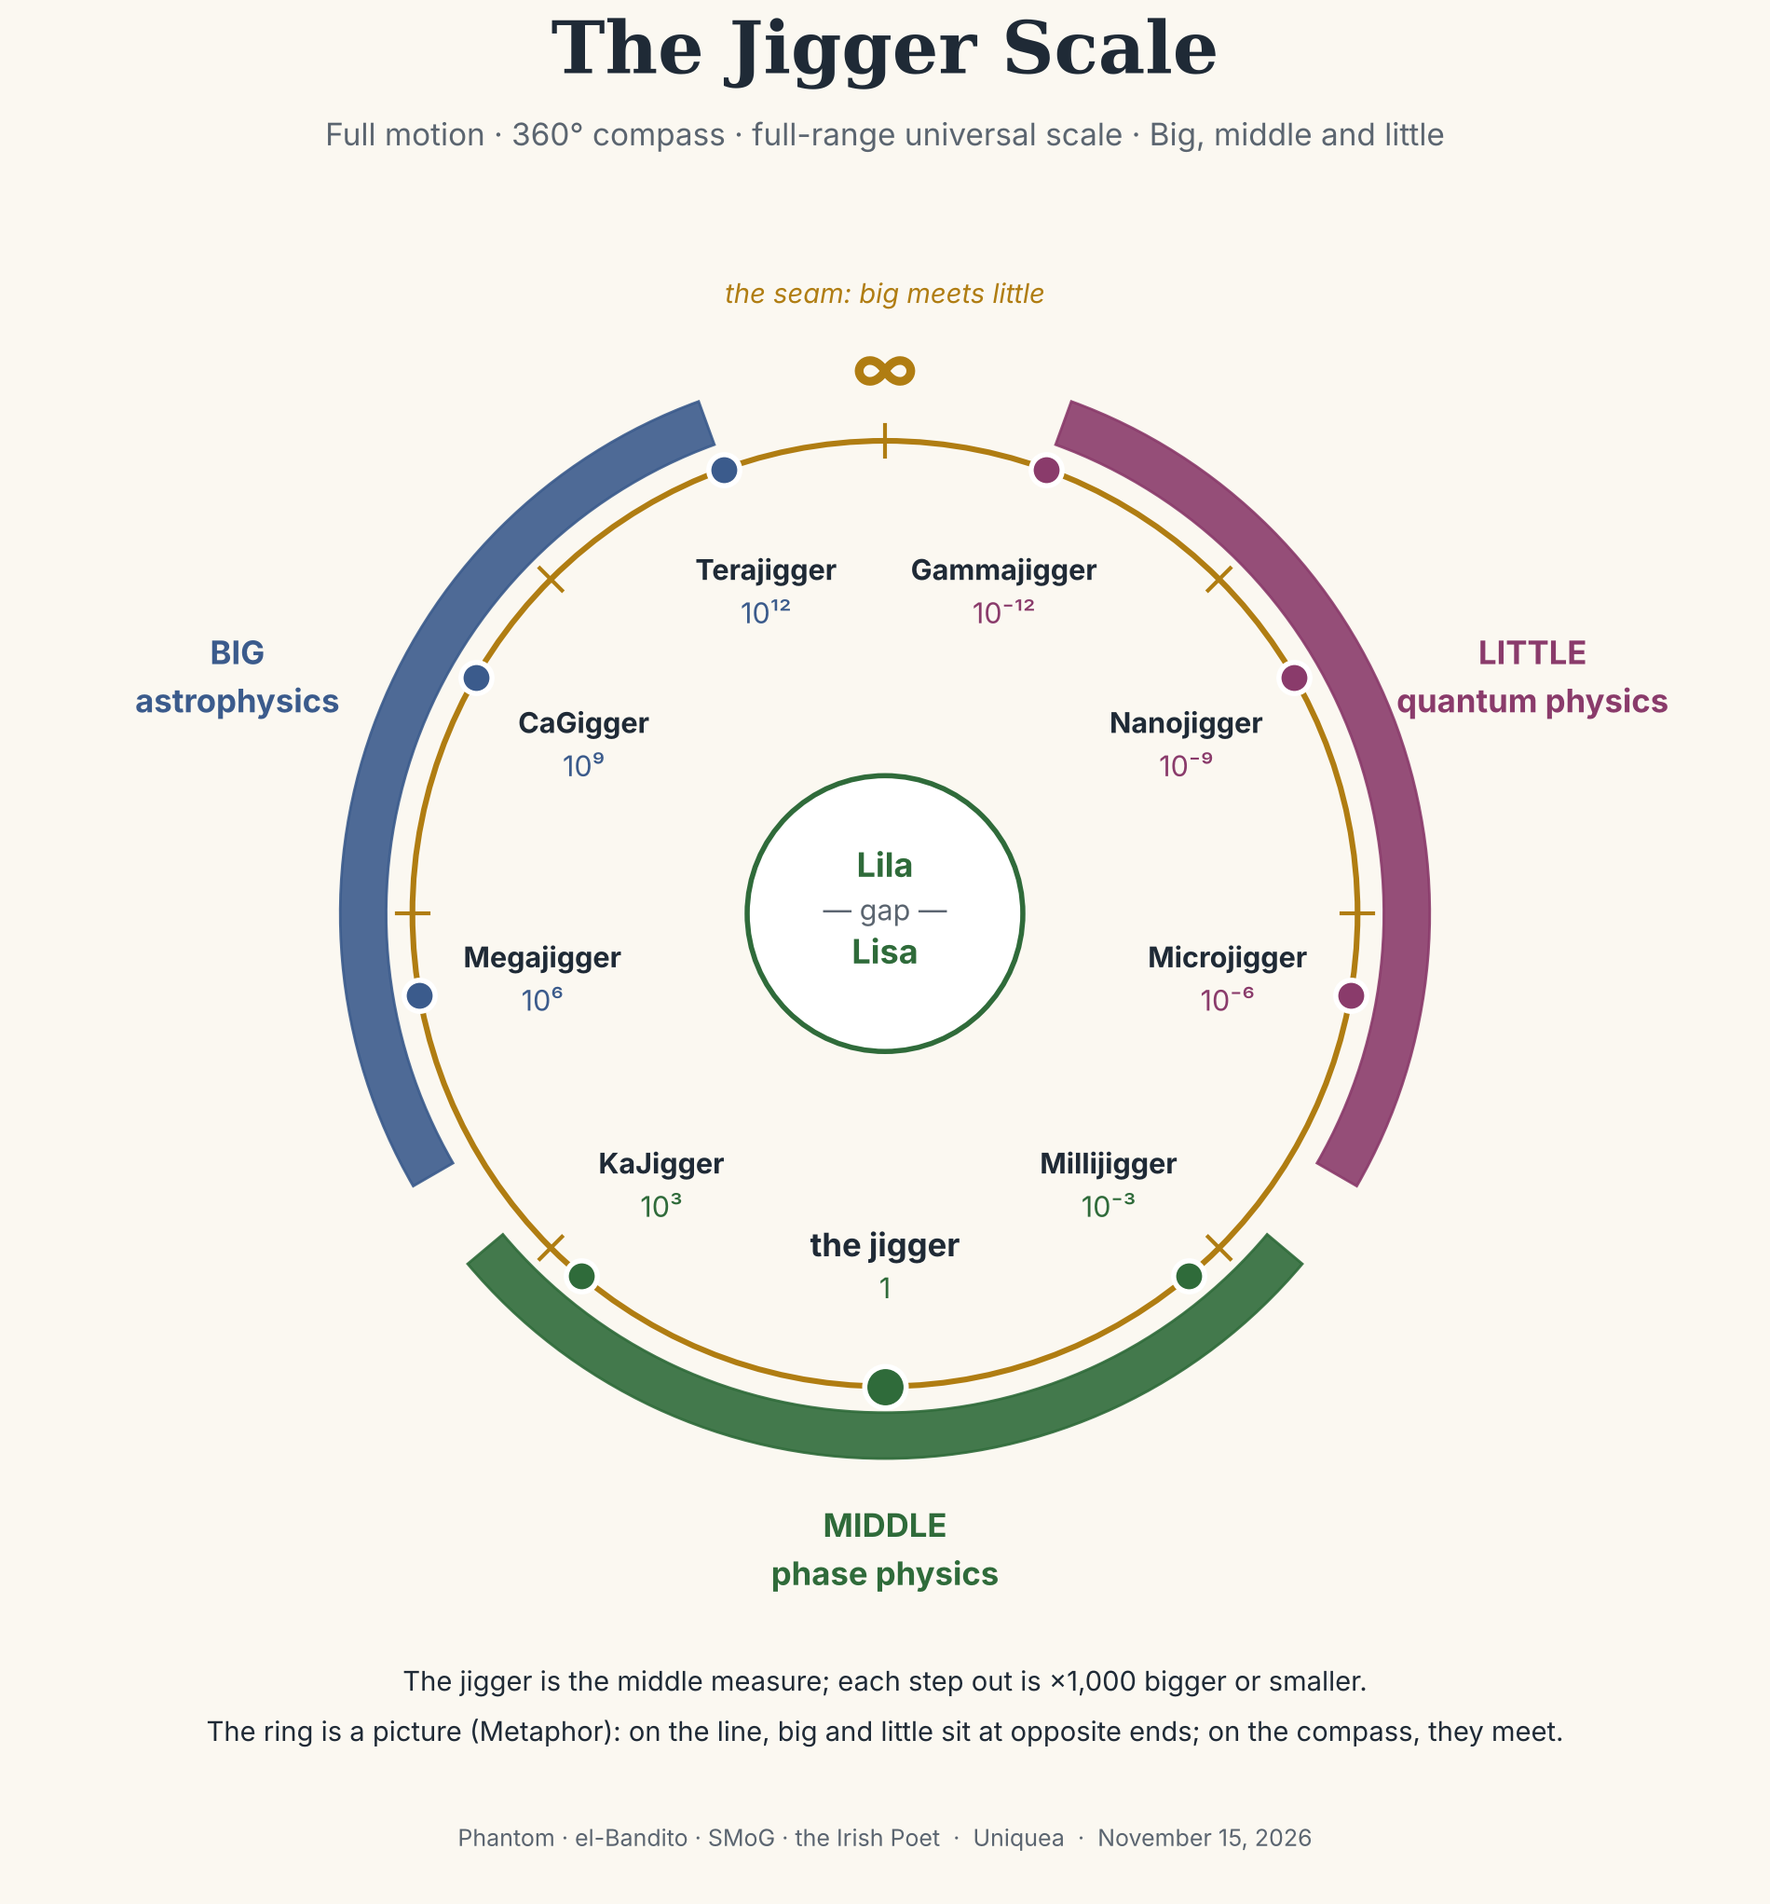
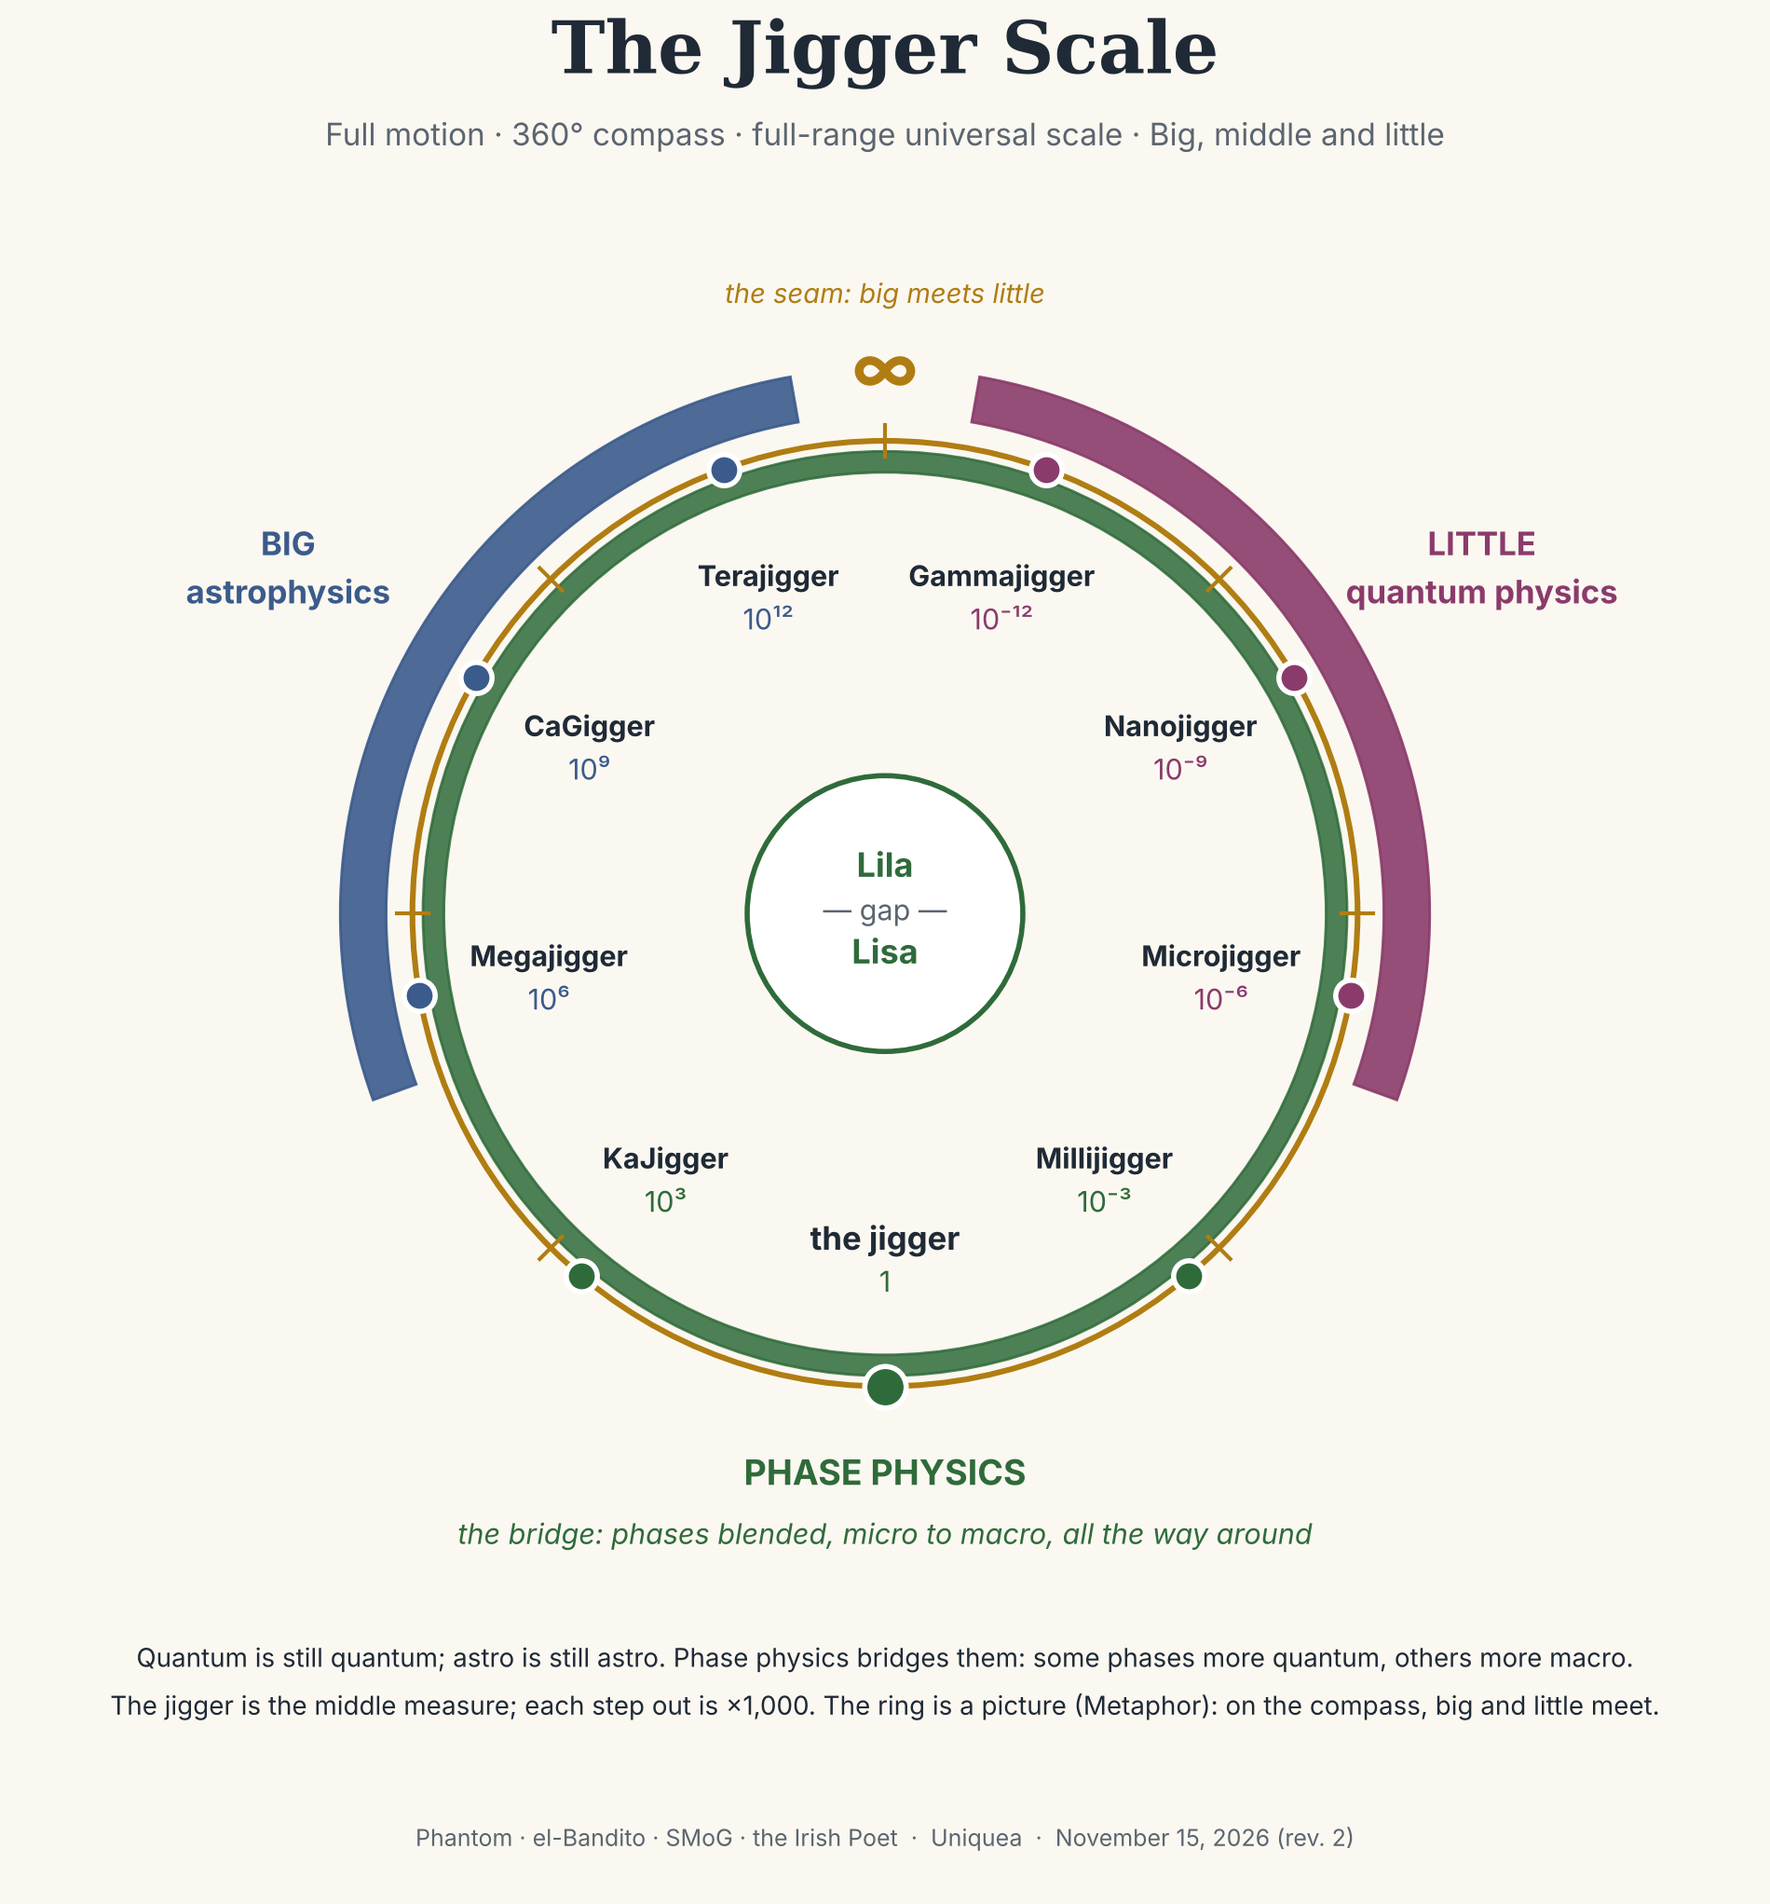
The Tablet and the Legend; Jigger Scale rev. 2 (phase physics as the bridge)
- docs/The-Tablet-and-the-Legend.md, figures/The-Tablet.png: the three scripts,
  the HAT key, rules with their exceptions, legend of terms
- figures/Jigger-Scale.png, docs/Jigger-Scale.md: owner's correction; phase physics
  runs the whole ring, quantum and astro at the ends
- master: Tablet and Legend, the correction, the Tada scale

Claude-Session: https://claude.ai/code/session_013dyZnLZ46x2JJH5VPEQcaW

diff --git a/docs/The-Tablet-and-the-Legend.md b/docs/The-Tablet-and-the-Legend.md
@@ -1,0 +1,86 @@
+# The Tablet and the Legend
+
+*Uniquea · November 15, 2026 · Stephen M. Griffin (Phantom.O.Vanish) · ORCID 0009-0005-8386-3999*
+
+> "In a rare moment of serious, we are creating a tablet and a legend that will become ancient texts."
+
+![The Tablet](../figures/The-Tablet.png)
+
+A map without a legend is a picture. The Rosetta Stone was read because it carried one decree three ways. This page is the record's legend: the key for a reader three hundred years from now, when today's words have lost their context.
+
+## 1. How to read the record: the three scripts
+
+Every important line in Uniquea is written three ways, like the Rosetta Stone:
+
+| Script | What it is | Example |
+|---|---|---|
+| **The owner's words** | Exactly as written, spelling and all | "Locked, sure." |
+| **Plain English** | What it means today | Irish English: "very drunk, and that ends the argument." |
+| **The HAT label** | How sure we are | Established |
+
+## 2. The HAT labels (Honest, Accurate, Truth)
+
+| Label | Meaning |
+|---|---|
+| **Established** | Accepted fact, checkable in standard sources |
+| **Derived** | Follows by correct math or logic from what is given |
+| **Tested** | Checked against data, with the method and result on file |
+| **Candidate** | Passed a first test; not yet confirmed |
+| **Postulated** | Proposed; not yet tested |
+| **Open** | A live question; not settled either way |
+| **Faith** | Held in belief, not proved; stated as such |
+| **Metaphor** | A picture that helps the mind; not a law |
+| **Humor** | A joke, labeled so no one mistakes it for a claim |
+| **Rule** | A saying or practice the owner lives by |
+| **Superseded** | Replaced by a later, better entry (kept, not erased) |
+| **Withdrawn** | Found wrong; kept on file with the reason |
+
+## 3. The rule and its exception
+
+> "I before E, except after C": and then comes *efficiently*. A twist, an exception. It happens.
+
+- **Established:** the old spelling rule has many exceptions, and some sit in this very page: *ancient*, *efficient*, *science* and *species* put **ie after c**; *weird*, *seize*, *their* and *neighbor* put **ei with no c at all**.
+- **Rule for the record:** every rule here is written down **with its exceptions beside it**. A rule without its exceptions misleads the future reader; an exception without its rule looks like an error.
+- **The owner's spellings stay.** Where the owner writes a word his way ("Barkley Square," "bare in mind," "Mezzeland"), the record keeps his words as written and notes the standard form beside them (Berkeley Square; bear in mind; *Medazzaland*). Both survive; neither is lost.
+
+## 4. Keep in view
+
+> "Don't neglect, overlook; Alt Field; bear in mind."
+
+Four ways of saying the same thing: keep it in view. **The Alt Field**, in the record, is the still center that the active fields move around, the ledger that holds what passes (Master 3.12). What is written in the legend is written in the Alt Field: it does not move, so it can be found again.
+
+## 5. The legend of terms
+
+| Term | Meaning | Label |
+|---|---|---|
+| **Uniquea** | The owner's framework and archive, written in four voices; DOI 10.5281/zenodo.24212673 | Established (the archive) |
+| **Phantom, el-Bandito Stevo, SMoG, the Irish Poet** | The owner's four voices: math; the field; the accountant and historian; poetry and wisdom | Established |
+| **Lila** | The open phase: the seam open, play, learning, waking | Metaphor, Candidate |
+| **Lisa; L.I.S.A.** | The restabilized phase: **L**inear, **I**nvariant, **S**table, **A**ligned; named in honor of Lisa | Metaphor |
+| **The Lisa force** | The pull that restores balance: negative feedback | Metaphor |
+| **Lila-gap-Lisa** | The middle: the gap between the open phase and the stable one | Metaphor |
+| **The fulcrum; double fulcrum** | The balance point; two balance points working together with motion on both sides (bilateral motion) | Metaphor, Rule |
+| **The Alt Field** | The still center the active fields move around; the ledger | Metaphor |
+| **A.L.E.R.T.** | Actual Logic, Everytime, Real Time | Rule |
+| **Happy Math** | Math that checks and agrees with itself; when a better, more precise option appears, "we yield" | Rule |
+| **Irishoccam** | Occam's razor, Irish style: the simplest explanation wins, with a wink | Humor, Rule |
+| **Nirvanish** | The bright, steady in-between; not Heaven, not Nirvana, but close enough to peace to feel the glow | Faith, coinage |
+| **Fantaseelastical** | Fantastical and elastic in one word: blending 7–8 ideas accurately; bending far and springing back | Coinage |
+| **Cyncro beyond Kronos** | Perfect order beyond clock time | Faith, Postulated |
+| **String Lines are rebar** | Interior strength at the weak point: rebar stays inside; scaffolding comes down | Metaphor |
+| **The Jigger Scale** | Terajigger (10¹²) to Gammajigger (10⁻¹²), the jigger (1) in the middle; astrophysics at the big end, quantum physics at the little end | Coinage; prefixes Established |
+| **Phase physics** | Phases blended, micro to macro, across all creation; some phases more quantum, others more macro; the math of phases bridges quantum and cosmic | Postulated (the bridge); phase-transition universality Established |
+| **The Tada scale** | Tada → Super Tada → Superduper Tada → UberSuper Tada, upscale and down; like encore, double encore, triple standing ovation; Mini Opus, Opus, Magnum Opus | Coinage, Humor |
+| **"The numbers tell no lies, hold no bias"** | Go in with no expectations, test option A and option B, and let the result stand | Rule |
+| **The Phantom Code** | A date read as a closed chain of arithmetic, e.g. 11-13-2026: 2 → 26 → 23 → 6 → 20 → 2 | Arithmetic Derived; meaning Faith |
+| **Goof Watch** | The owner's finds of errors in films, songs and the record itself, each checked | Humor, HAT on each |
+| **Locked, sure** | Irish English: very drunk, and that ends the argument | Established (idiom) |
+| **"Tada"** | The owner's sign that the work is done and right | Rule |
+
+## 6. Why it is here
+
+> "Three hundred years from now, all of it will be ancient text. History loses context easily, so psychobabble today is Egyptian hieroglyphs tomorrow."
+
+Hieroglyphs went unread for 1,428 years (394 AD to 1822). The legend is the key left beside the code, so the record never has to wait for its Champollion.
+
+*Sites break; cites that never break are the proof.*

diff --git a/docs/Jigger-Scale.md b/docs/Jigger-Scale.md
@@ -10,27 +10,30 @@
 
 | Jigger | Prefix | Size | Band |
 |---|---|---|---|
-| Terajigger | tera | 10¹² | Big |
-| CaGigger | giga | 10⁹ | Big |
-| Megajigger | mega | 10⁶ | Big |
+| Terajigger | tera | 10¹² | Big (astro) |
+| CaGigger | giga | 10⁹ | Big (astro) |
+| Megajigger | mega | 10⁶ | Big (astro) |
 | KaJigger | kilo | 10³ | Middle |
 | **the jigger** | (none) | **1** | **Middle: Lila-gap-Lisa** |
 | Millijigger | milli | 10⁻³ | Middle |
-| Microjigger | micro | 10⁻⁶ | Little |
-| Nanojigger | nano | 10⁻⁹ | Little |
-| Gammajigger | pico (gamma rays) | 10⁻¹² | Little |
+| Microjigger | micro | 10⁻⁶ | Little (quantum) |
+| Nanojigger | nano | 10⁻⁹ | Little (quantum) |
+| Gammajigger | pico (gamma rays) | 10⁻¹² | Little (quantum) |
 
-Each step out from the middle is a factor of 1,000.
+Each step out from the middle is a factor of 1,000. **Phase physics runs the whole column**, top to bottom: it is the bridge, not one band.
 
 ## Phantom's concept
 
 - **Full motion, a 360° compass, a full-range universal scale.** The scale is drawn as a ring rather than a line. On a line, the biggest and the smallest sit at opposite ends; on the compass, they meet at the top, the seam marked ∞.
-- **Big, middle and little.** Three bands: **astrophysics** (big), **phase physics** (middle), **quantum physics** (little).
+- **Big, middle and little; and the bridge (revised November 15, 2026, 7:49 a.m., the owner's correction):** "Two ends over fulcrum, a double fulcrum. Quantum is still quantum physics and astro is still astro. Phase physics describes phases blended, micro to macro: all creation, across scale. Some phases are more quantum and others more macro. The current state of quantum and cosmic are bridged by the math of phases." In the figure, astrophysics and quantum physics are the two ends (outer arcs); **phase physics is the inner ring that runs all the way around**, the bridge between them.
 - **The middle is the valuable answer.** The jigger sits at the bottom of the ring, the fulcrum; Lila and Lisa sit in the center with the gap between them.
+- **A common language.** "We are creating a common language because the math has ordered the descriptions. We went with no expectations, applied option A and option B, and tada: the numbers tell no lies, hold no bias."
 
 ## HAT
 
 - **Established:** the prefixes are the SI's (tera 10¹², giga 10⁹, mega 10⁶, kilo 10³, milli 10⁻³, micro 10⁻⁶, nano 10⁻⁹, pico 10⁻¹²; since 2022 the SI runs from quecto, 10⁻³⁰, to quetta, 10³⁰). Gamma rays have wavelengths around a picometer (10⁻¹² m) and shorter. A jigger is also a real bar measure, 1.5 US fluid ounces (about 44 ml). Chaos is Greek *khaos*, the yawning gap before creation; KAOS is the villains' agency on *Get Smart* (1965).
 - **Coinage:** CaGigger, KaJigger, Megajigger, Microjigger, Gammajigger and the rest. The owner's K and G land on the real prefixes kilo and giga.
 - **Metaphor:** the ring, and the seam where big meets little. In physics, the largest and smallest scales are linked in real ways (the early universe was quantum-small; quantum fluctuations seeded today's galaxies), but the ring itself is a picture, not a derived law.
-- **Postulated:** the three bands as the scale's natural divisions (astrophysics, phase physics, quantum physics).
+- **Established, the bridge in standard physics:** the math of phases already crosses scales. Phase transitions share "universality": a magnet at its Curie point and a fluid at its critical point obey the same exponents, whatever their atoms (the renormalization group, Kenneth Wilson, Nobel 1982). Phase transitions also run at both ends: Bose–Einstein condensates and superconductors at the quantum end; in cosmology, the early universe passed through phase transitions (electroweak, quark–hadron), and neutron stars hold superfluid phases.
+- **Open:** a full bridge between quantum physics and gravity (quantum gravity) is not yet settled in physics.
+- **Postulated (Uniquea):** that the math of phases is the bridge between quantum and cosmic, and that it gives the record its common language.

diff --git a/master/Uniquea-Master-Public.md b/master/Uniquea-Master-Public.md
@@ -2724,3 +2724,9 @@ Phantom O'Vanish, the Irish Poet, Grandpa "Pops" Stevo and el-Bandito: signed, s
 - **On hearing things (Rule):** "Errors repeat more often the more the errors are repeated. The trick is controlling a chain reaction before it clears the Lila-Lisa barrier." *Established:* in 1990 Milli Vanilli became the first act to lose a Grammy, after it came out they had not sung on their record; one error, repeated in public, became the story.
 - **On ancient text (Rule):** "Three hundred years from now, all of it will be ancient text. History loses context easily, so psychobabble today is Egyptian hieroglyphs tomorrow." *Established:* hieroglyphs went unread from the last dated inscription (394 AD) until Champollion read them in 1822 with the Rosetta Stone, one decree written three ways. The HAT notes are the record's Rosetta Stone: the key left beside the code. Figure: [figures/On-Ancient-Text.png](../figures/On-Ancient-Text.png).
 - **The Jigger Scale (coinage; Established prefixes; Metaphor ring; Postulated bands):** Terajigger 10¹² to Gammajigger 10⁻¹², the jigger (1) in the middle, Lila-gap-Lisa; Phantom's full-motion 360° compass, big, middle and little = astrophysics, phase physics, quantum physics. Write-up and figure: [docs/Jigger-Scale.md](../docs/Jigger-Scale.md), [figures/Jigger-Scale.png](../figures/Jigger-Scale.png).
+
+## The Tablet and the Legend; phase physics as the bridge (November 15, 2026)
+
+- **The Tablet and the Legend (Rule):** "In a rare moment of serious, we are creating a tablet and a legend that will become ancient texts." Every important line is written three ways, like the Rosetta Stone: the owner's words, plain English, the HAT label. Every rule is written with its exceptions beside it ("i before e, except after c," but *ancient*, *efficient*, *science*). The owner's spellings are kept, with the standard form noted. "Don't neglect, overlook; Alt Field; bear in mind." Key of HAT labels and a legend of terms: [docs/The-Tablet-and-the-Legend.md](../docs/The-Tablet-and-the-Legend.md), [figures/The-Tablet.png](../figures/The-Tablet.png).
+- **Correction to the Jigger Scale (owner):** "Quantum is still quantum physics and astro is still astro. Phase physics describes phases blended micro to macro: all creation, across scale… The current state of quantum and cosmic are bridged by the math of phases." Phase physics is the ring running all the way around, not a middle band (figure rev. 2). *Established:* the universality of phase transitions (renormalization group, Wilson, Nobel 1982); phase transitions at the quantum end (superconductors, Bose–Einstein condensates) and the cosmic end (early-universe transitions). *Postulated:* the math of phases as the bridge and the common language. *Open:* quantum gravity.
+- **The Tada scale (coinage, Humor):** Tada, Super Tada, Superduper, UberSuper; encore, double encore, triple standing ovation; Mini Opus, Opus, Magnum Opus. **Rule:** "We went with no expectations, applied option A and option B, and tada: the numbers tell no lies, hold no bias."
